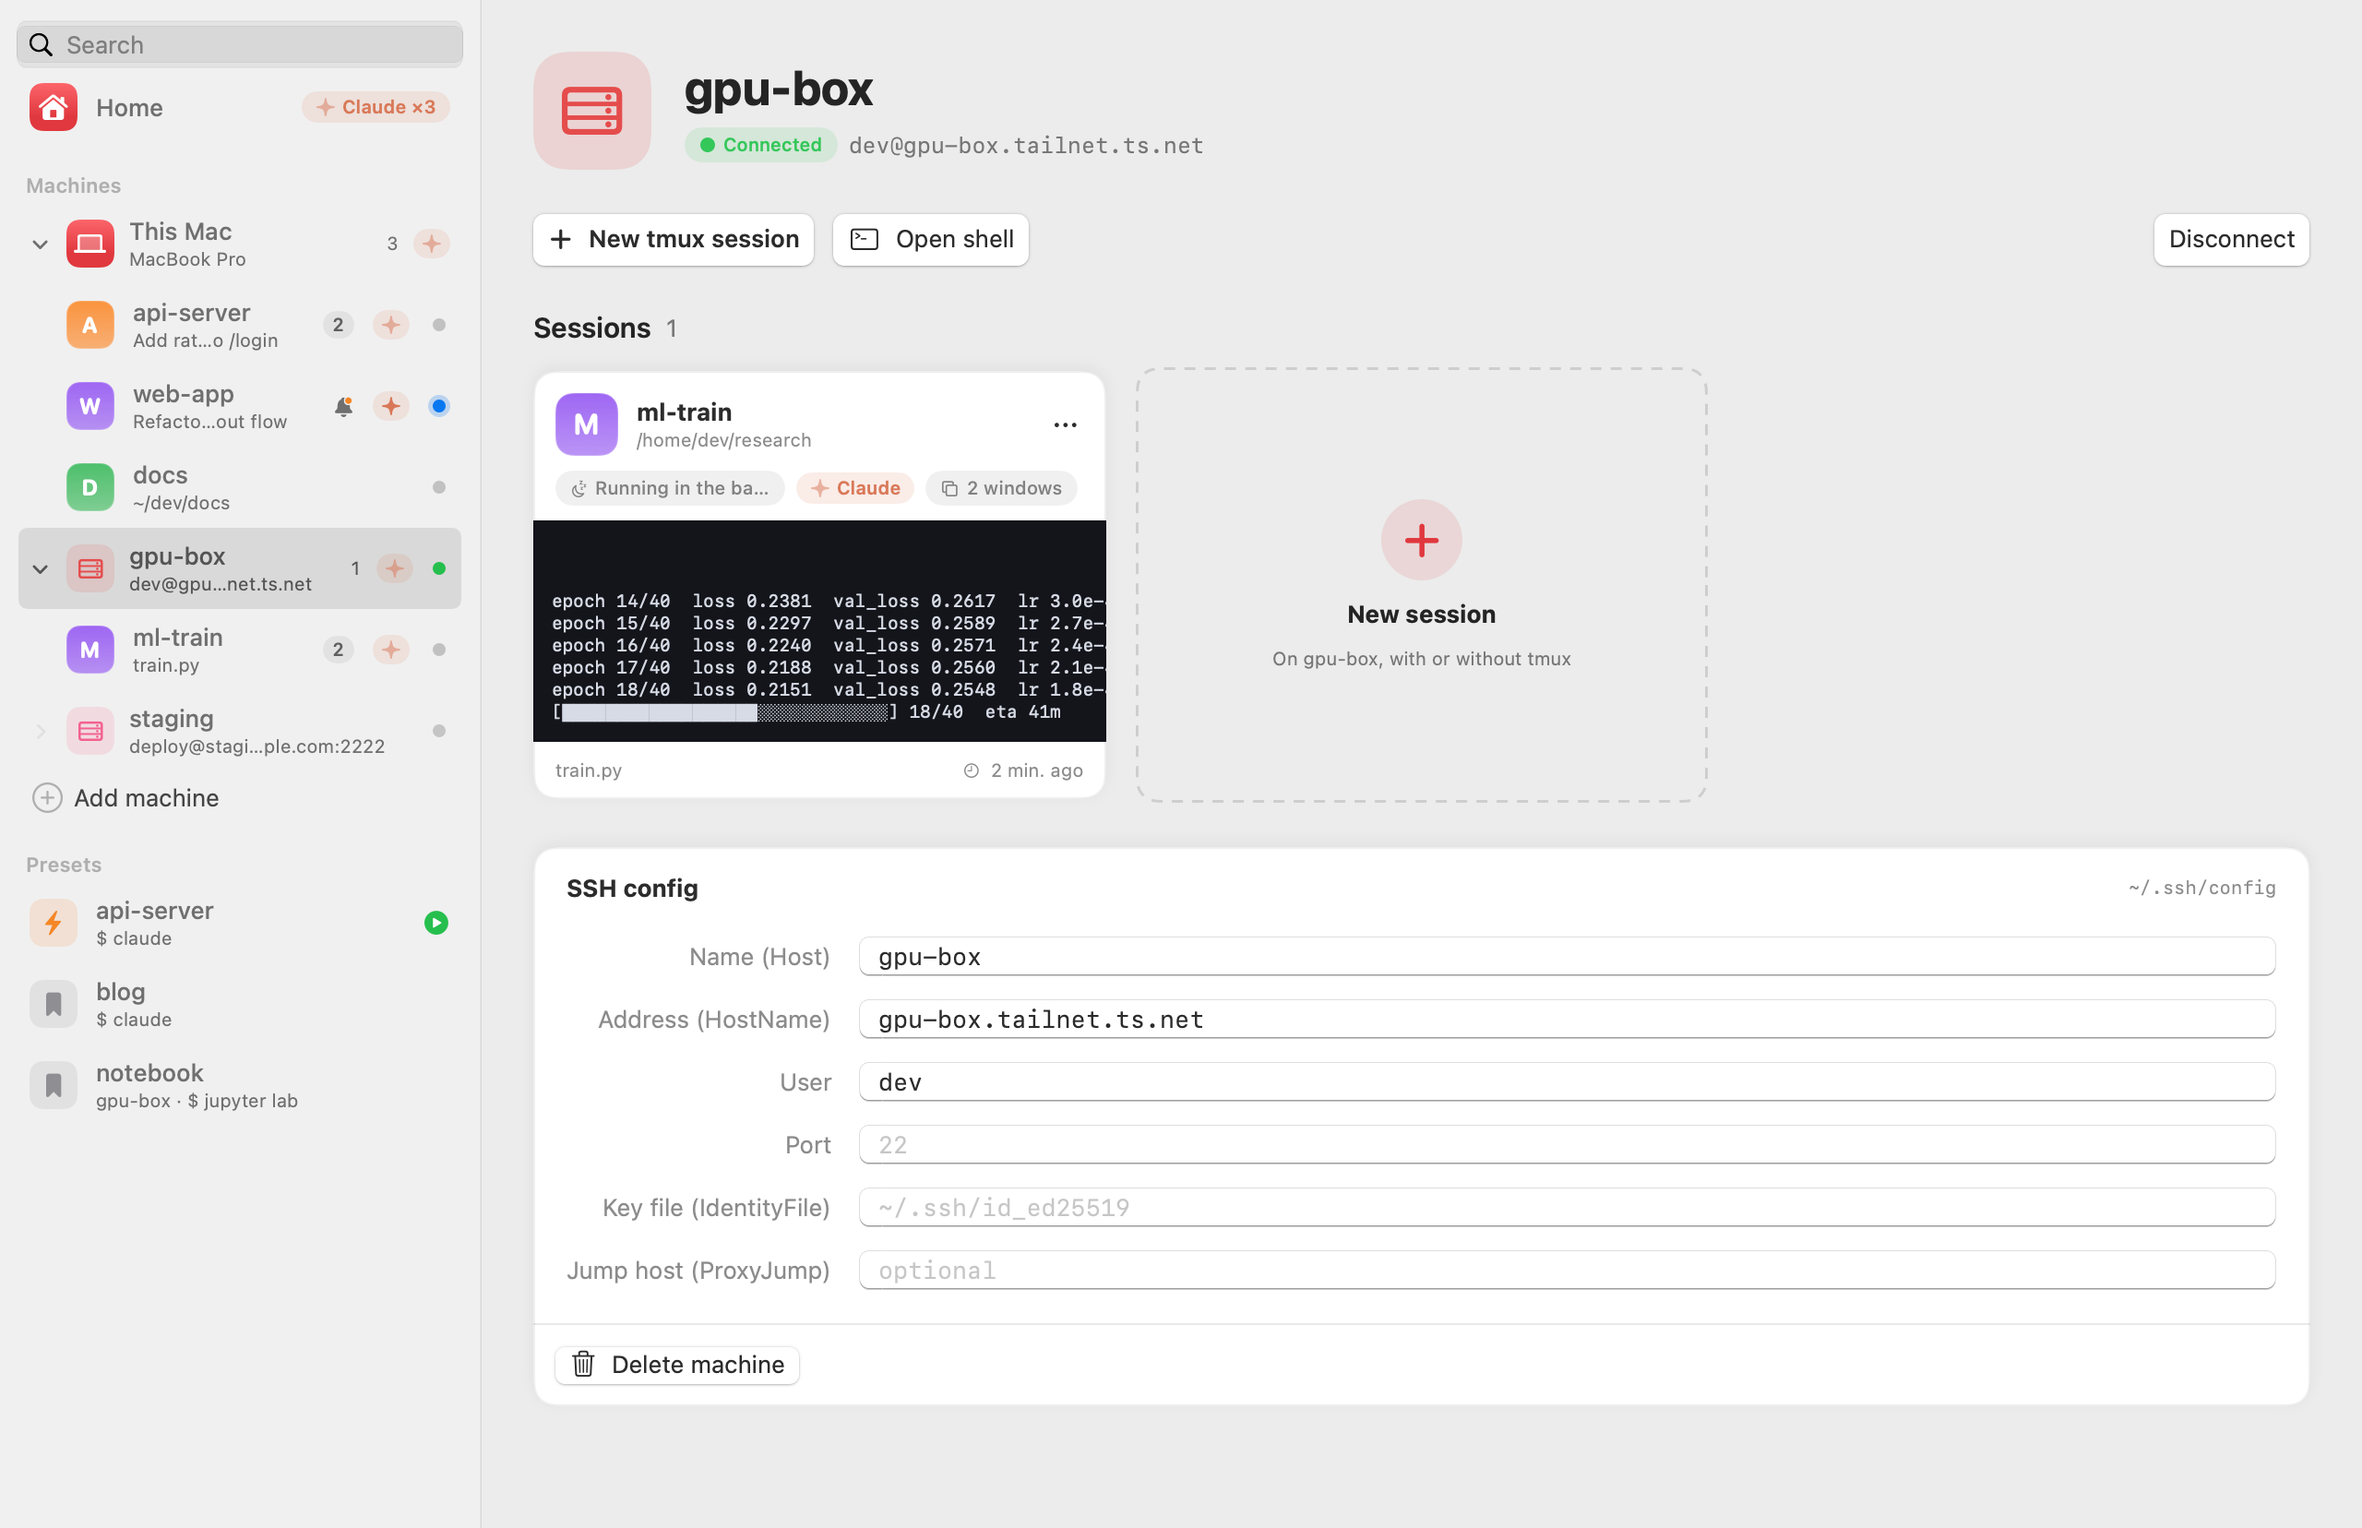
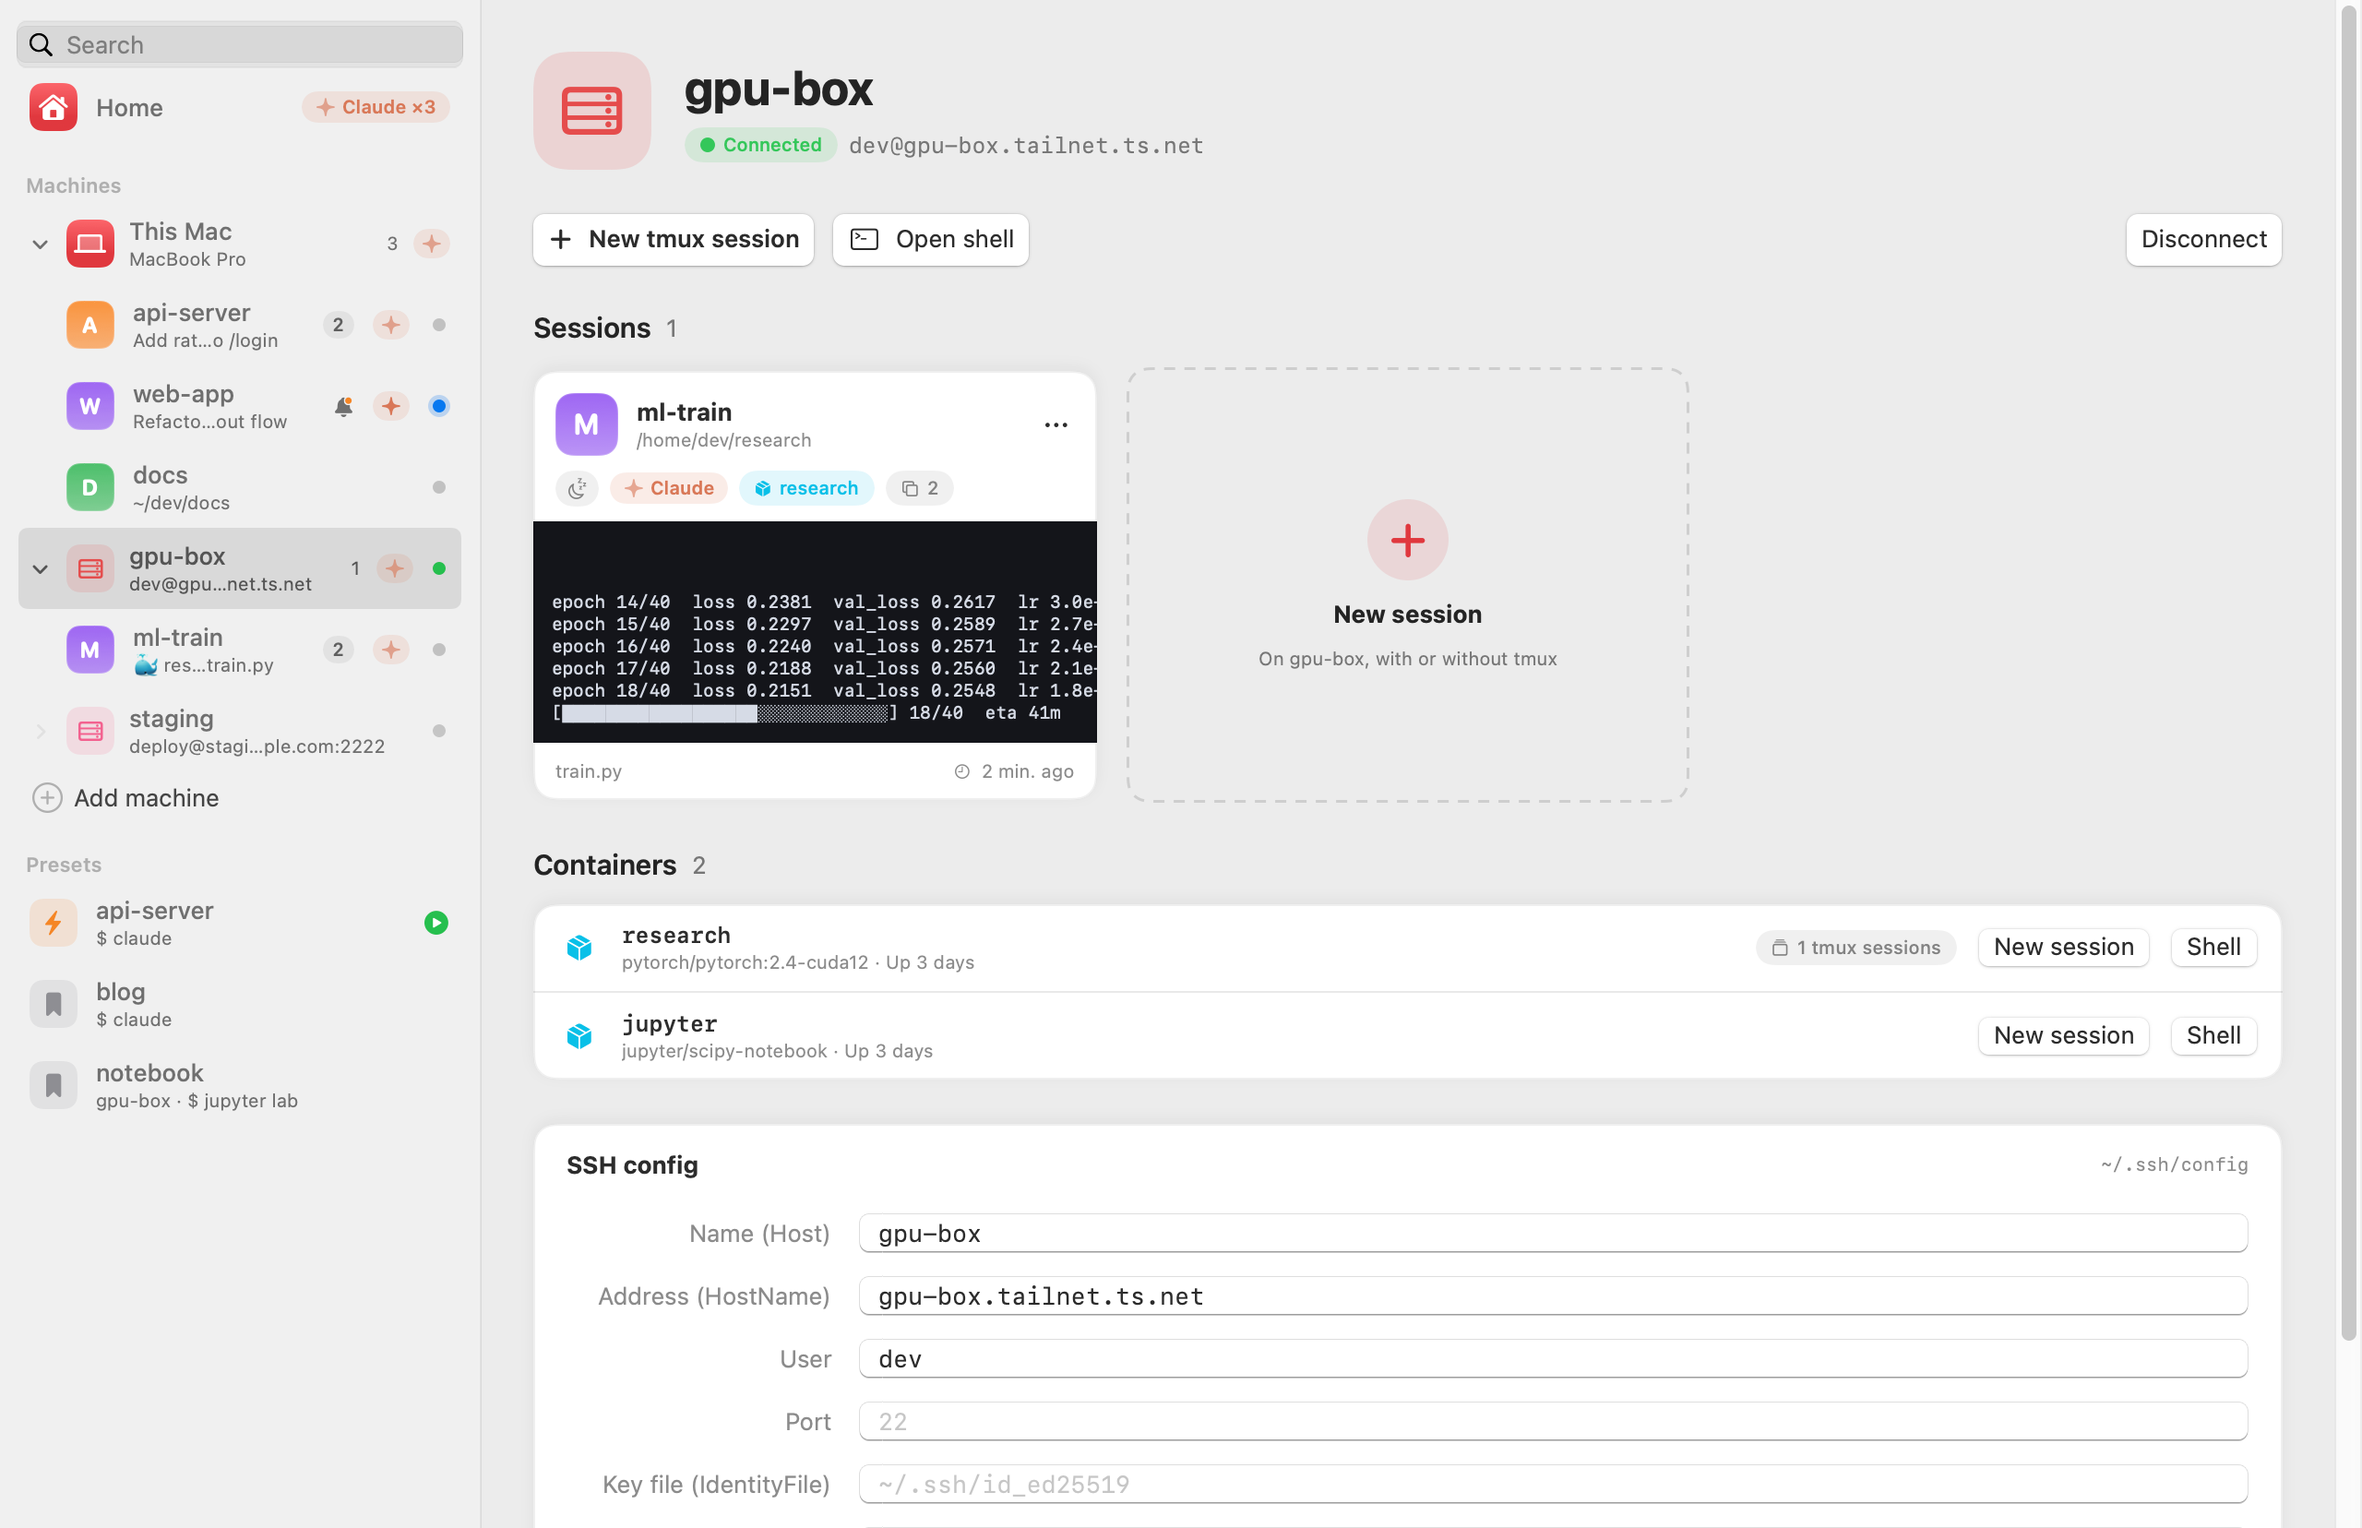
Initia 0.6.6-beta

diff --git a/README.md b/README.md
@@ -38,14 +38,16 @@ Initia is the app I wanted for that:
 - **Presets for the things you start every day.** A machine, a folder and a startup command (like `claude`) become one click, or start on their own when Initia launches
 - **Know when Claude is done.** Initia sees which sessions run Claude Code and whether it is working or waiting, and notifies you when it finishes, even on a remote server
 - **Many machines, one window.** Your `~/.ssh/config` machines sit next to this Mac. Connect once and see every tmux session running on each of them, and open any of them in a tab
+- **And containers inside them.** Real work often happens one level deeper, in a docker container on the server. Initia keeps tmux on the server, enters the container for you, and still knows when Claude in there is done
 - **A home, not just a terminal.** Start from an overview of everything that is running, then dive into a session in Initia's own terminal
 
 ## Features
 
 - **Home**: a start screen with a card for every session, live previews, and a summary of what's running
 - **Built-in terminal**: open any tmux session in a real terminal inside Initia, with a tab for each one. Closing a tab only detaches. Plain terminals without tmux work too (⌘T)
-- **Claude Code aware**: see which sessions run Claude and whether it is working or waiting. Get a notification when Claude finishes, and quit it cleanly with **Exit** (`/exit`, then end the session)
+- **Claude Code aware**: see which sessions run Claude (or `happy claude`) and whether it is working or waiting, even inside a docker container. Get a notification when Claude finishes, and quit it cleanly with **Exit** (`/exit`, then end the session)
 - **Machines**: this Mac and your `~/.ssh/config` machines side by side in the sidebar. Connect (key or password) to see and open each machine's tmux sessions, and add or edit machines in the app. Initia keeps one SSH session per machine, so your server sees a single login
+- **Docker containers**: keep tmux on the server and work inside a container. A session or preset can name a container, and Initia runs `docker exec` into it for you (with your folder and startup command). Each machine page lists its running containers, and sessions show which container they are in
 - **Snippets**: one-click buttons under the terminal that type text for you (`/clear`, `/compact`, …)
 - **Manage tmux**: create sessions; rename sessions and windows; create and close windows
 - **Opens in Initia by default**, and still one click away in iTerm2, Terminal, cmux, Ghostty, WezTerm, kitty or Alacritty
@@ -78,11 +80,12 @@ Presets are stored in `~/.config/initia/config.json`, so you can also write them
 ```json
 "presets": [
   { "name": "api-server", "path": "~/dev/api-server", "command": "claude", "autostart": true },
-  { "name": "notebook", "path": "~/research", "command": "jupyter lab", "device": "gpu-box" }
+  { "name": "notebook", "path": "~/research", "command": "jupyter lab", "device": "gpu-box" },
+  { "name": "train", "path": "/workspace/train", "command": "claude", "device": "gpu-box", "container": "research" }
 ]
 ```
 
-`device` is the machine's `Host` name from `~/.ssh/config`. Leave it out for this Mac.
+`device` is the machine's `Host` name from `~/.ssh/config`. Leave it out for this Mac. With `container`, tmux stays on the machine and the session runs `docker exec -it -w <path> <container> bash -lc '<command>; exec bash -l'`, so `path` is a folder inside the container.
 
 ## Configuration
 

diff --git a/CHANGELOG.md b/CHANGELOG.md
@@ -1,5 +1,18 @@
 # Changelog
 
+## 0.6.6-beta
+
+### New: docker containers
+
+- **Claude inside docker is detected.** When a tmux pane runs `docker exec` into a container, Claude's processes are not under the pane, so Initia now also recognizes Claude from its window title and screen. Working/waiting, notifications and Exit work as usual
+- **Sessions and presets can enter a container.** Pick a running container (or type its name) in New session or a preset: tmux stays on the machine and Initia runs `docker exec -it -w <folder> <container> bash -lc '<command>; exec bash -l'` for you
+- Machine pages list running containers with **New session** and **Shell** buttons, and session cards, rows and window cards show the container a session is in (🐳)
+
+### New
+
+- Sessions started with `happy claude` show a **Happy** badge. In Happy's remote mode, where Claude's screen is hidden, the badge says so
+- "Device" is now "Machine" in the session and preset forms, and crowded session cards shrink the status chip to an icon
+
 ## 0.6.5-beta
 
 ### Changes
